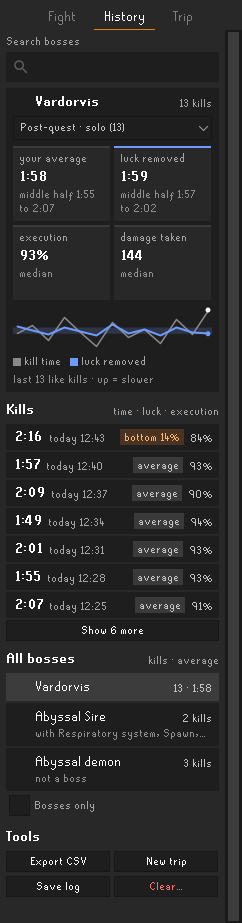
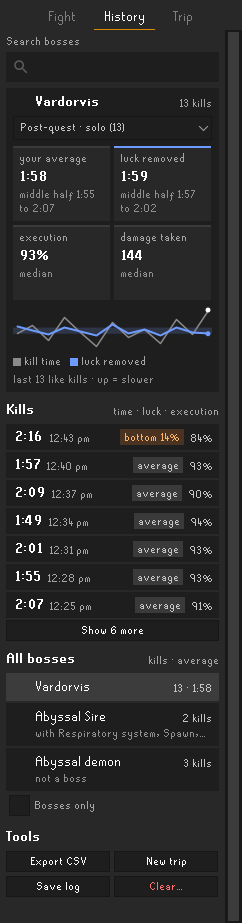
T-067: README and pictures for master after T-066 and T-073
- FreshInstallTest pins T-073's defaults: "Under Execution" Costing only,
  "Always show DPS overlay" off, the DPS overlay simplifying after 60 s.
- README: the loadout overlay is the DPS overlay (T-073); the Leviathan's
  Shadow-spell limit is gone (T-066). CHANGELOG to match, with T-072's
  am/pm times.
- ReadmePictures: the overlays are drawn with a new install's settings
  (asInstalled), the DPS overlay with its vs line named and coloured as
  the plugin does it, and the ruled kill built here with its bleed by
  kind. Every picture re-rendered on 387ccb3.

Claude-Session: https://claude.ai/code/session_01X18etdM16w4AUQNJwybjo9

Changed region(s): [[0.2025, 0.455, 0.376, 0.6674], [0.3471, 0.6067, 0.376, 0.6674]]

diff --git a/src/test/java/com/pvmlogs/ReadmePictures.java b/src/test/java/com/pvmlogs/ReadmePictures.java
@@ -42,7 +42,7 @@ import net.runelite.client.ui.overlay.components.PanelComponent;
  * <li>The overlays: rows turned into line components by {@link PvmPerformanceOverlay#lines} as the overlay does, in
  * RuneLite's own {@link PanelComponent} with its standard background, over a neutral dark scene (the overlays are
  * see-through). The fight overlay, its loadout and the Fight tab all come from one simulated kill, {@link Graardor};
- * the ruled kill is {@link LedgerPictures#states()}' Vardorvis.</li>
+ * the ruled kill is {@link #ruledKill()}'s Vardorvis. All with a new install's settings ({@link #asInstalled()}).</li>
  * <li>The side panel's History and Trip tabs, from {@link SidePanelPictures}.</li>
  * <li>A GIF of the Fight tab through a simulated kill, redrawn every {@link PvmPerformancePanel#UPDATE_TICKS} ticks as
  * the panel updates, then the view after the kill, all cut to {@link #MAX_GIF_HEIGHT}.</li>
@@ -75,12 +75,11 @@ public final class ReadmePictures
 		Files.createDirectories(out);
 		RuneLiteLAF.setup();
 
-		final java.util.Map<String, List<LedgerRows.Row>> states = LedgerPictures.states();
 		final Graardor g = new Graardor();
-		png(out, "overlay-mid-fight", overlays(g.mid, LedgerRows.loadout(tentacle(), false)));
+		png(out, "overlay-mid-fight", overlays(g.mid, LedgerRows.loadout(g.versus(tentacle()), false)));
 		png(out, "overlay-after-kill", overlays(g.dead));
-		png(out, "overlay-ruled-kill", overlays(states.get("14-ruled")));
-		png(out, "overlay-loadout", overlays(LedgerRows.loadout(hammer(), false)));
+		png(out, "overlay-ruled-kill", overlays(ruledKill()));
+		png(out, "overlay-loadout", overlays(LedgerRows.loadout(g.versus(hammer()), false)));
 
 		png(out, "panel-fight", SidePanelPictures.render(g.panel, 1));
 		png(out, "panel-history", SidePanelPictures.renderHistory(false, 1));
@@ -106,11 +105,13 @@ public final class ReadmePictures
 		final List<LedgerRows.Row> mid;
 		final List<LedgerRows.Row> dead;
 		final SidePanelModel.Input panel;
+		private final Fight fight;
 
 		Graardor()
 		{
-			final LedgerRows.Settings all = new LedgerRows.Settings();
+			final LedgerRows.Settings all = asInstalled();
 			final Kill kill = Kill.graardor();
+			fight = kill.fight;
 			// Mid-fight: about half its hitpoints gone.
 			while (!kill.over() && kill.hp > HP / 2)
 			{
@@ -136,9 +137,56 @@ public final class ReadmePictures
 			panel.endMillis = kill.now();
 			panel.average = usual;
 		}
+
+		/** The DPS overlay's `vs` line (T-073), named and coloured as the plugin does it for this fight. */
+		LedgerRows.Loadout versus(LedgerRows.Loadout l)
+		{
+			l.versus = LoadoutOverlay.versus(fight);
+			l.versusRgb = LoadoutOverlay.versusColour(fight);
+			return l;
+		}
 	}
 
-	/** The tentacle mid-fight at Graardor, its Defence drained to 175: no special of its own, so no spec rows. */
+	/**
+	 * The fight overlay's settings as a new install has them (T-073: Execution's parts "Costing only"), so the pictures
+	 * show what a new player sees.
+	 */
+	static LedgerRows.Settings asInstalled()
+	{
+		final PvmPerformanceConfig fresh = new PvmPerformanceConfig()
+		{
+		};
+		final LedgerRows.Settings s = new LedgerRows.Settings();
+		s.luck = fresh.overlayLuck();
+		s.parts = fresh.overlayParts();
+		s.details = fresh.overlayDetails();
+		return s;
+	}
+
+	/**
+	 * After a kill at a boss with attack rules (T-043): {@link LedgerPictures}' "14-ruled" Vardorvis figures, with the
+	 * bleed taken by kind (T-062) and a new install's settings.
+	 */
+	static List<LedgerRows.Row> ruledKill()
+	{
+		final LedgerExamples.FakeScope ruled = LedgerExamples.kill();
+		ruled.combatTicks = 216;
+		ruled.ticksLost = 25 + 27;
+		ruled.ticksLostEating = 27;
+		ruled.damageTaken = 263;
+		ruled.avoidableEatingTicks = 21.6;
+		ruled.damageTakenAvoidable = 141;
+		ruled.dotTaken = 27;
+		ruled.dotTakenByKind.put("bleed", 27);
+		ruled.biggestHitTaken = 41;
+		ruled.damageTakenUnprotected = 85;
+		ruled.damageVariance = 11436;
+		ruled.setup(0.98, 0.85, 2.352, 0);
+		return LedgerRows.build(ruled, LedgerRows.State.fight("Vardorvis", true, true, false)
+			.withAverage(new LedgerHistory.Average(new LedgerHistory.Spread(119, 115, 125), 10)), asInstalled());
+	}
+
+	/** The DPS overlay's tentacle mid-fight at Graardor, its Defence drained to 175: no special, so no spec rows. */
 	static LedgerRows.Loadout tentacle()
 	{
 		final LedgerRows.Loadout l = new LedgerRows.Loadout();
@@ -150,7 +198,7 @@ public final class ReadmePictures
 		return l;
 	}
 
-	/** The Dragon warhammer, for the loadout picture: its own figures and its special's (×1.5 max hit). */
+	/** The Dragon warhammer, for the DPS overlay's picture: its own figures and its special's (×1.5 max hit). */
 	static LedgerRows.Loadout hammer()
 	{
 		final LedgerRows.Loadout l = new LedgerRows.Loadout();

diff --git a/src/test/java/com/pvmlogs/FreshInstallTest.java b/src/test/java/com/pvmlogs/FreshInstallTest.java
@@ -26,14 +26,19 @@ public class FreshInstallTest
 		final Map<String, String> d = new TreeMap<>();
 		// Overlays
 		d.put("showOverlay", "true");
+		// "Show DPS overlay" (the key is the old loadout overlay's, T-073).
 		d.put("overlayShowLoadout", "true");
+		// T-073: "Always show DPS overlay" off; it simplifies after 60 s without an attack.
+		d.put("overlayAlwaysDps", "false");
+		d.put("overlayDpsIdleSeconds", "60");
 		// Bosses only: on for new installs (Eric, 2026-10-27, T-040).
 		d.put("overlayBossesOnly", "true");
 		d.put("overlayHoldSeconds", "60");
 		d.put("overlayCovers", "FIGHT");
 		// Fight overlay
 		d.put("overlayLuck", "true");
-		d.put("overlayParts", "ALL");
+		// "Under Execution": Costing only for new installs (T-073, Eric 2026-10-28).
+		d.put("overlayParts", "COSTING");
 		d.put("overlayDetails", "true");
 		// Side panel: live and charts on; larger and smooth text off, so it looks as it always has (T-053).
 		d.put("panelLive", "true");

diff --git a/README.md b/README.md
@@ -17,11 +17,11 @@ Live during the fight, the full breakdown after the kill.
 
 <table>
 <tr>
-<td><img src="docs/images/overlay-mid-fight.png" alt="The fight overlay mid-fight at General Graardor, with the Defence a special took and the loadout overlay under it"></td>
+<td><img src="docs/images/overlay-mid-fight.png" alt="The fight overlay mid-fight at General Graardor, with the Defence a special took and the DPS overlay under it"></td>
 <td><img src="docs/images/overlay-after-kill.png" alt="The fight overlay after a General Graardor kill"></td>
 </tr>
 <tr>
-<td>Mid-fight, with the loadout overlay under it</td>
+<td>Mid-fight, with the DPS overlay under it</td>
 <td>After the kill: the drain's worth, and your usual time</td>
 </tr>
 </table>
@@ -30,10 +30,10 @@ After a kill at a boss with attack rules, Execution gains an **avoidable eating*
 
 <img src="docs/images/overlay-ruled-kill.png" alt="The fight overlay after a Vardorvis kill, with avoidable eating and avoidable damage taken">
 
-### The loadout overlay
-Your current weapon's max hit, accuracy and DPS against the target, and its special attack's.
+### The DPS overlay
+Your current weapon's DPS, max hit and accuracy against the monster it names, and its special attack's. It can also stay up outside fights ("Always show DPS overlay"), against the last monster you fought; after a minute without an attack it shrinks to what needs no monster: the max hit and the special's.
 
-<img src="docs/images/overlay-loadout.png" alt="The loadout overlay for a Dragon warhammer, with its special attack">
+<img src="docs/images/overlay-loadout.png" alt="The DPS overlay for a Dragon warhammer against General Graardor, with its special attack">
 
 ### The side panel
 - **Fight:** where the time went, Luck, the Defence your specials took, Execution, damage by weapon and source, damage over time, a tick strip, and damage taken.
@@ -76,7 +76,6 @@ One download, and nothing uploaded.
   - burn from burning claws in *expected* damage (it's counted once it lands);
   - the coloured hitsplats some bosses use for shields or poise (Verzik's first phase, Kephri, the Wardens), which count as damage.
 - **Guessed, where no source says:** what counts as behind the Leviathan for a back shot, and how its 33% reduction rounds; how fast drained Defence comes back (mostly from a wiki user's measurements), and that it starts coming back at the first drain.
-- **The Leviathan:** a Shadow spell's stun isn't picked up yet, so the next shot is scored wrongly and Luck there reads lucky.
 - **Thralls:** a zombie thrall's timing hasn't been confirmed in a log, and in a group where teammates summon at the same moment, a teammate's thrall could be taken for yours.
 - **Rules about the boss's attacks** (for avoidable damage and eating) exist for Vardorvis only.
 

diff --git a/CHANGELOG.md b/CHANGELOG.md
@@ -17,8 +17,9 @@ Luck vs Skill is its own Plugin Hub entry. It began as a fork of Arodab's PvM Pe
 - A shot thrown just before a gear switch is scored with what you held when you threw it.
 
 **What it shows**
-- The fight overlay ("Ledger"): live, then the full breakdown and your usual time after the kill.
-- The loadout overlay: your weapon's max hit, accuracy and DPS against the target, and its special's.
+- The fight overlay ("Ledger"): live, then the full breakdown and your usual time after the kill. Execution's parts show only the ones that cost time, unless you choose all of them.
+- The DPS overlay: your weapon's DPS, max hit and accuracy against the monster it names, and its special's. It can stay up outside fights.
+- Times of day show am and pm, so they can't be read as kill times.
 - A new side panel: Fight (where the time went, luck curve, damage by weapon, damage over time, tick strip), History (search, your usual time and execution per boss, every kill) and Trip; boss icons from the game; larger and smooth text options.
 - Settings in four sections; Bosses only is on for new installs.
 
